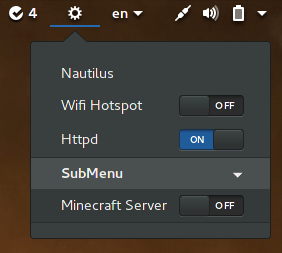
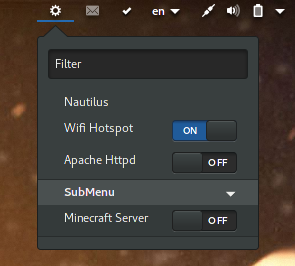
Modified README.md. Added toggler state cache to reduce detection costs.

diff --git a/quicktoggler@shihira.github.com/core.js b/quicktoggler@shihira.github.com/core.js
@@ -97,6 +97,12 @@ function quoteShellArg(arg) {
     return "'" + arg + "'";
 }
 
+// This cache is used to reduce detector cost. Each time creating an item, it
+// check if the result of this detector is cached, which prevent the togglers
+// from running detector on each creation. This is useful especially in search
+// mode.
+let _toggler_state_cache = { };
+
 const TogglerEntry = new Lang.Class({
     Name: 'TogglerEntry',
     Extends: Entry,
@@ -118,6 +124,8 @@ const TogglerEntry = new Lang.Class({
         this.item = new PopupMenu.PopupSwitchMenuItem(this.title);
         this.item.label.get_clutter_text().set_use_markup(true);
         this.item.connect('toggled', Lang.bind(this, this._onManuallyToggled));
+
+        this._loadState();
 
         return this.item;
     },
@@ -146,9 +154,20 @@ const TogglerEntry = new Lang.Class({
         });
     },
 
+    _storeState: function(state) {
+        _toggler_state_cache[this.detector] = state;
+    },
+
+    _loadState: function() {
+        let state = _toggler_state_cache[this.detector]; 
+        if(state != undefined)
+            this.item.setToggleState(state); // doesn't emit 'toggled'
+    },
+
     pulse: function() {
         this._detect(Lang.bind(this, function(state) {
-            this.item.setToggleState(state); // doesn't emit 'toggled'
+            this._storeState(state);
+            this._loadState();
             //global.log(this.title + ': ' + this._manually_switched_off);
 
             if(!state && !this._manually_switched_off && this.auto_on)

diff --git a/quicktoggler@shihira.github.com/extension.js b/quicktoggler@shihira.github.com/extension.js
@@ -321,7 +321,6 @@ const TogglerIndicator = new Lang.Class({
             for(let i in result) {
                 let item = result[i].createItem();
                 this.menu.addMenuItem(item);
-                result[i].pulse();
             }
         } else {
             if(!this.search_mode)
@@ -333,7 +332,6 @@ const TogglerIndicator = new Lang.Class({
                 let item = this.config_loader.entries[i].createItem();
                 this.menu.addMenuItem(item);
             }
-            this.pulse();
         }
     },
 

diff --git a/README.md b/README.md
@@ -59,11 +59,15 @@ Modify `entries.json` as follows and restart the extension.
 }
 ```
 
-Then that's what you will see:
+Then what you will see is below. For more examples, view
+`/examples/README.md`.
 
 ![screenshot-1](https://raw.githubusercontent.com/Shihira/gnome-extension-quicktoggler/master/examples/screenshot-1.png)
 
-For more examples, see `/examples/README.md`.
+You can now even apply a fuzzy filter to your entries. In the screenshot below
+'h' matches words 'Httpd' and 'Hotspot'.
+
+![screenshot-2](https://raw.githubusercontent.com/Shihira/gnome-extension-quicktoggler/master/examples/screenshot-2.png)
 
 ## Configuration
 
@@ -140,16 +144,6 @@ password by `pkexec`.
 #### 6. `separator`
 
 No extra properties. Just a separator.
-
-## Hints
-
-There provides a case-insensitive and fuzzy filter that enables you search in
-entry titles. When you type "ji", it matches "jim", "Jinja", "Java IDE", but
-doesn't match words like "Intelij IDEA".
-
-Operations that have high cost of time like requesting the network, heavy
-computing work are strongly unrecommmended to be used as detectors.
-Please have youself well considered before doing so.
 
 ## Footnote
 
